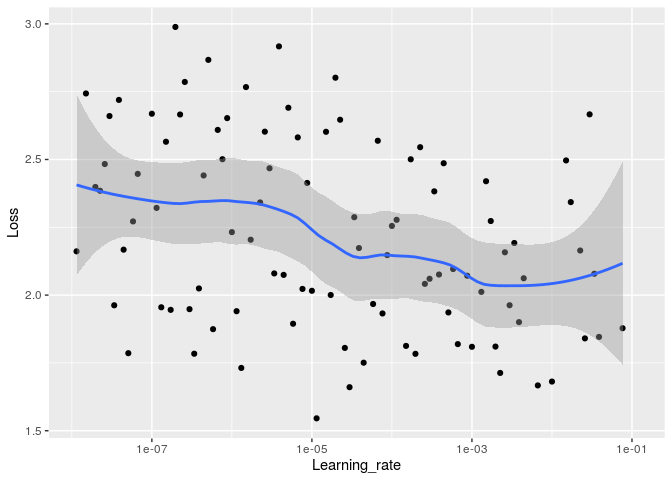
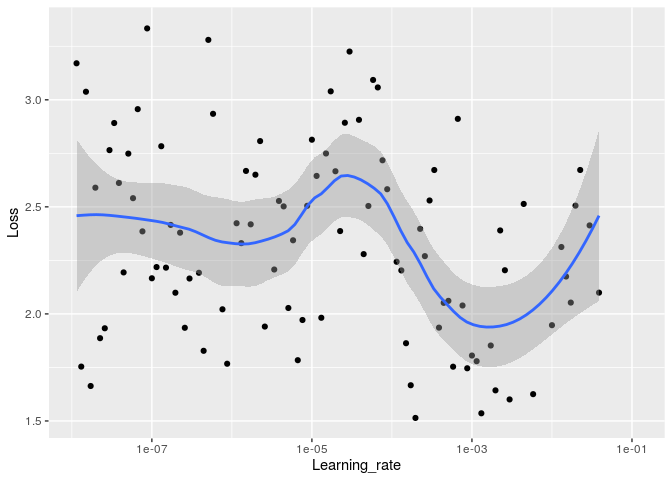
Final version for training of the custom head

diff --git a/resnet50-lr-finder-and-cyclic-lr-with-r.md b/resnet50-lr-finder-and-cyclic-lr-with-r.md
@@ -21,7 +21,7 @@ policy.
 
 ## To do list :
 
-  - bigger images
+  - bigger images :heavy\_check\_mark:
   - load best model after training :heavy\_check\_mark:
   - lr finder :heavy\_check\_mark:
   - add data augmentation :heavy\_check\_mark:
@@ -286,8 +286,8 @@ str(batch)
 ```
 
     ## List of 2
-    ##  $ : num [1:16, 1:448, 1:448, 1:3] 123 79 65 53.2 55 ...
-    ##  $ : num [1:16, 1:4] 1 0 1 0 0 1 0 1 0 0 ...
+    ##  $ : num [1:16, 1:448, 1:448, 1:3] 173 51 20.5 144.2 57 ...
+    ##  $ : num [1:16, 1:4] 0 0 0 1 0 0 0 0 0 1 ...
 
 # Import pre-trained model
 
@@ -461,7 +461,7 @@ history <- model %>% fit_generator(
     epochs = 1,
     callbacks = callback_list,
     validation_data = validation_generator,
-    validation_step=30
+    validation_step=1
 )
 ```
 
@@ -471,12 +471,12 @@ head(data)
 ```
 
     ##   Learning_rate     Loss
-    ## 1  1.145048e-08 2.161326
-    ## 2  1.311134e-08 1.388247
-    ## 3  1.501311e-08 2.743364
-    ## 4  1.719072e-08 3.008206
-    ## 5  1.968419e-08 2.398663
-    ## 6  2.253934e-08 2.384671
+    ## 1  1.145048e-08 3.170528
+    ## 2  1.311134e-08 1.753860
+    ## 3  1.501311e-08 3.037656
+    ## 4  1.719072e-08 1.663288
+    ## 5  1.968419e-08 2.589540
+    ## 6  2.253934e-08 1.886588
 
 Learning rate vs loss
 :
@@ -717,4 +717,5 @@ plot(history)
 list.files("checkpoints/")
 ```
 
-    ## [1] "weights.01.hdf5" "weights.02.hdf5" "weights.09.hdf5" "weights.10.hdf5"
+    ## [1] "weights.01.hdf5" "weights.04.hdf5" "weights.11.hdf5" "weights.13.hdf5"
+    ## [5] "weights.14.hdf5" "weights.15.hdf5"
